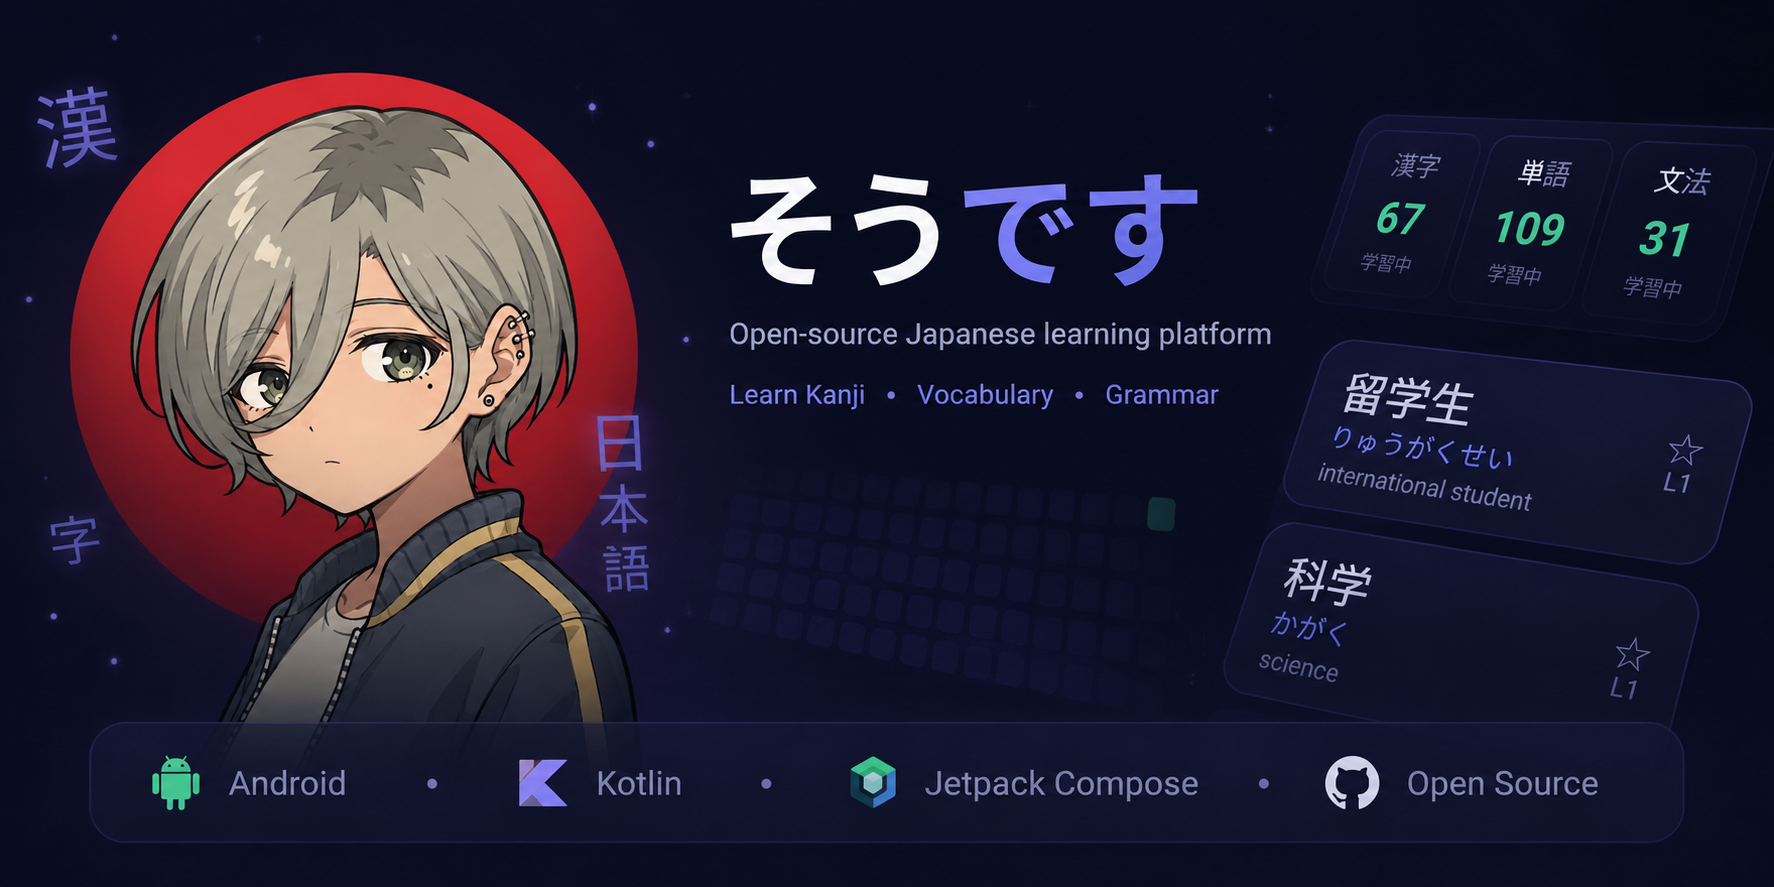
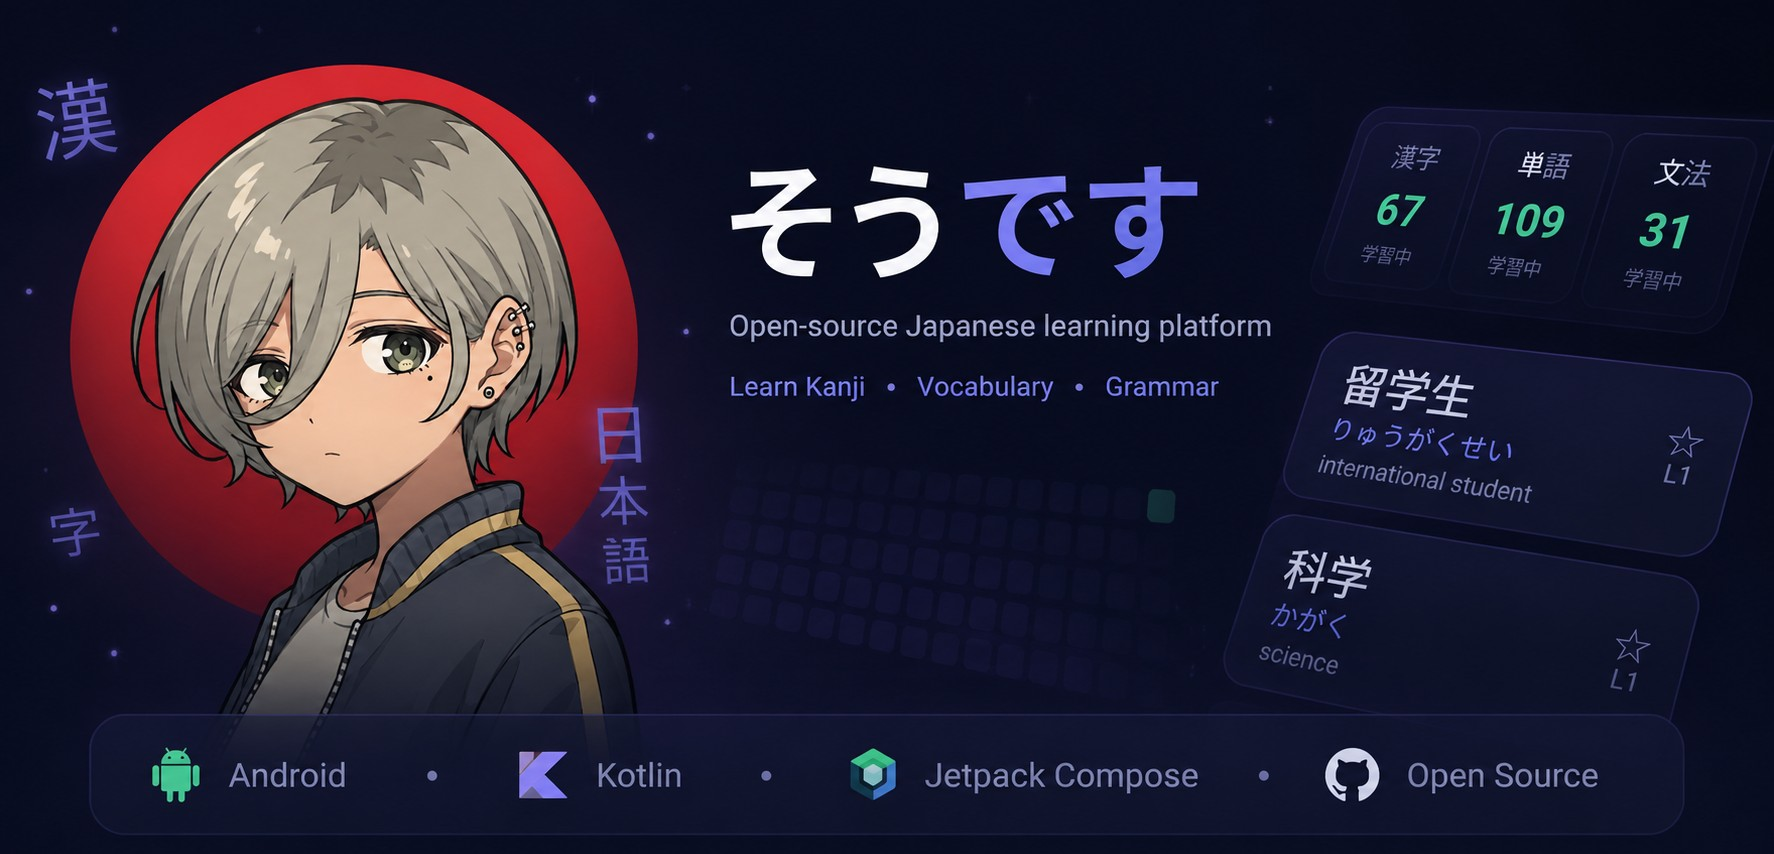
Fix README line endings, ignore release folder

diff --git a/README.md b/README.md
@@ -19,7 +19,7 @@
 
 ## ✨ Возможности
 
-- 🎴 **Учить** — карточки с интервальным повторением (SM-2): кандзи, слова, грамматика.
+- 🎴 **Учить** — карточки с интервальным повторением : кандзи, слова, грамматика.
 - 📚 **Библиотеки материалов** — Genki 1, Genki 2, «Полезные материалы». Можно добавлять свои библиотеки; список будет расширяться по популярным учебникам.
 - 🔍 **Офлайн-словарь** — поиск по кандзи, кане, английскому и русскому.
 - 文 **Грамматика** — конструкции из Genki с короткими подсказками и развёрнутыми объяснениями.